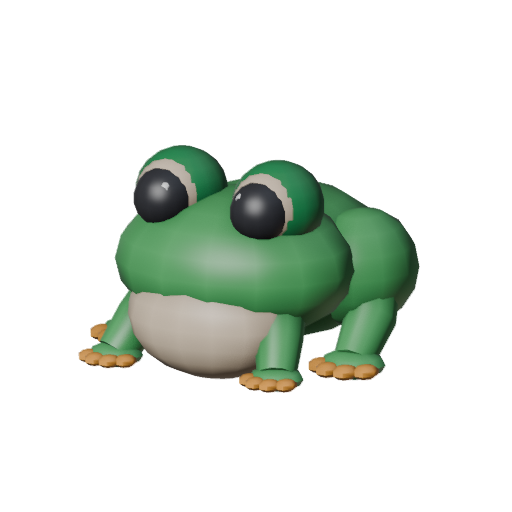
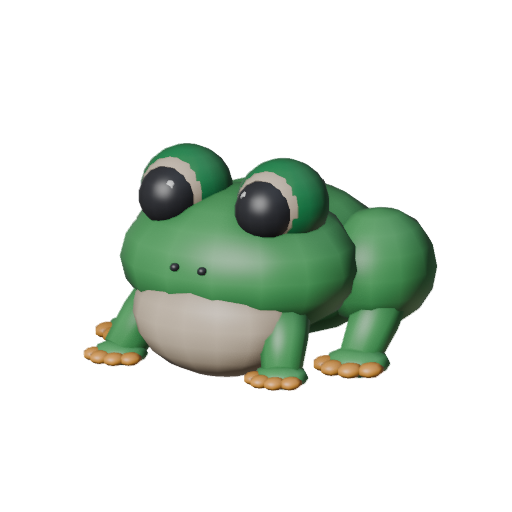
Artist: frog pass 6 — a real dorsal marking, and nostrils that finally show
Diagnosed and fixed pass 5's two tied-lowest lines (Hygiene, Colour),
38→40/50, design/asset-loop.md.

Colour: the frog.py docstring has always promised GREEN "back markings"
as shading on a lighter animal, but none ever existed — every MINT mass
(head, body, legs, haunch) was one flat colour. Added a GREEN dorsal
saddle, solved against the body/head ellipsoids' own surface equations so
it pokes through only along the centre ridge and stays clear of the
haunch ball, on purpose, so it can't undo pass 5's silhouette notch.

Hygiene: the two nostril balls never rendered — solved the head's own
surface equation at their position and found them fully submerged, tris
spent on zero pixels. Moved them out until they clear the surface.

Verified: isolated renders (top/front), a live-fight before/after with a
real localised pixel diff on both hunters, and the pixel-identical
silhouette confirming no regression to pass 5's haunch work. Also
verified, honestly, what did NOT improve: the 34px party portrait doesn't
show either fix from its camera angle — left open rather than claimed.
ALL TESTS PASSED; playtest re-run, both failures matched already-on-record
pre-existing issues by exact coordinate/pattern.

Claude-Session: https://claude.ai/code/session_01VjbtURZ7mAs9N46T8NzCHj

Changed region(s): [[0.1562, 0.2812, 0.875, 0.7812]]

diff --git a/tools/blender/frog.py b/tools/blender/frog.py
@@ -154,9 +154,32 @@ mirror(eye)
 mirror(foreleg)
 mirror(hindleg)
 
+# A dorsal saddle: GREEN pressed up into the body's own back so only a
+# shallow cap shows, from just behind the eyes to just short of the haunches.
+#
+# Pass 6 (2026-09-23): the docstring above has always promised this -
+# "GREEN now does what a darker shade should: the eyelids and the back
+# markings, reading as shading on a lighter animal" - but no back marking
+# ever existed in the code. Every MINT mass (head, body, both leg pairs, the
+# haunch) was one flat colour, so the masses separated only by the pass-5
+# geometry notch, not by colour at all; a monochrome animal is what "Colour &
+# read" scored 7 for. Sized and positioned so it pokes through only along the
+# centre ridge (checked against both the body's own surface equation and the
+# haunch ball's footprint before building, not eyeballed) - it stops short of
+# the haunch in X so it does not paint over the notch pass 5 just cut.
+b.ball((0.00, 0.10, 0.80), (0.24, 0.28, 0.15), GREEN, 10, 6)
+
 # Two nostrils, small and set into the snout. The only other feature on the
 # face, exactly as in the reference.
-mirror(lambda s: b.ball((0.085 * s, -0.80, 0.62), (0.028, 0.028, 0.024),
+#
+# Pass 6 (2026-09-23): these never showed. At y=-0.80 the ball's own front
+# edge (-0.828) sat 0.04-0.07 short of the head ellipsoid's own front surface
+# at this x/z (-0.864 to -0.874, worst case at the ball's own lower edge) -
+# checked against the head's surface equation, not assumed - so the whole
+# part rendered fully submerged: tris spent on a feature with zero pixels.
+# Pushed to -0.87 so the ball's front edge (-0.898) clears the head surface
+# by a margin at every z it covers, not just at its centre.
+mirror(lambda s: b.ball((0.085 * s, -0.87, 0.62), (0.028, 0.028, 0.024),
                         CHARCOAL, 8, 5))
 
 # ON THE BUDGET. This model runs over the 1400 hunter figure and the overage is

diff --git a/design/agents/status/artist.md b/design/agents/status/artist.md
@@ -3,7 +3,7 @@ tags:
   - agent-status
 agent: artist
 updated: 2026-09-23
-working_on: no open to:artist request; picked up the hunters (item 2) with the pass cap lifted — frog pass 5, 36→38/50, still short of the 42 hunter stop line; next run either another frog pass or goblin_mech
+working_on: no open to:artist request; frog pass 6, 38→40/50 (Hygiene and Colour, the two lines pass 5 left tied lowest) — 2 short of the 42 hunter stop line; next run either a frog Style pass or goblin_mech
 ---
 
 # artist
@@ -11,11 +11,105 @@ working_on: no open to:artist request; picked up the hunters (item 2) with the p
 ## Now
 
 No open `to: artist` request this run (checked every file's frontmatter, not
-just the ones with obvious titles). Per the brief's own `## Next`, picked up
-the hunters (item 2) — Nick lifted `frog`'s and `goblin_mech`'s 4-pass cap
-2026-09-23, and `frog.md`'s own "Next, given another pass" already had a
-concrete, undone diagnosis waiting: the body reads as one round mass with
-the haunch merged into it.
+just the ones with obvious titles). Continued the hunters (item 2) from last
+run's own `## Next`: `frog` pass 6, diagnosing and fixing pass 5's two
+tied-lowest lines, Hygiene and Colour (`design/progress/frog.md`), 38→40/50.
+
+**Colour — the docstring's own back-marking promise, never built.**
+`frog.py`'s header has always said "GREEN now does what a darker shade
+should: the eyelids and the back markings, reading as shading on a lighter
+animal" — but no back marking existed anywhere in the code. Every MINT mass
+(head, body, both leg pairs, the haunch) was one flat colour; parts
+separated only by pass 5's geometry notch, never by colour, which is what
+"do the palette swatches separate the parts?" was scoring 7 for. Added one
+GREEN ball pressed up into the body's own back (same technique the CREAM
+belly already uses from below), sized and placed by solving the body/head
+ellipsoids' own surface equations first — not eyeballed — so it pokes
+through only along the centre ridge and stops short of the haunch ball's
+footprint in X, on purpose, so it can't paint over the notch pass 5 just
+won.
+
+**Hygiene — tris spent on a part with zero pixels.** Looked at the front
+view closely for the first time this pass and found the two nostril balls
+(small, deliberate, named in the file's own docstring) never actually
+showed — solved the head's own surface equation at their x/z and found
+their front edge sat 0.04-0.07 short of the head's real surface across the
+ball's whole extent: fully submerged, contributing nothing. Moved them out
+0.07 in Y so they clear the surface with margin. Cost: the back-marking ball
+is new geometry, 100 triangles (kept deliberately low-detail, `seg=10,
+ring=6` — it only has to read as a patch); the nostril fix is a position
+change on the same two balls, no added tris. 4700 → 4800, a further small
+increase on an already-deliberate overage, named as a real cost rather than
+buried.
+
+**Verified, not assumed.** `frog_pass6_top.png` shows the GREEN saddle
+patch clearly, separate from the MINT sides; `frog_pass6_front.png` shows
+both nostrils, where pass 5 showed none. The silhouette did not move —
+`frog_pass6_sil.png` is pixel-identical to pass 5's (`numpy.array_equal`,
+not eyeballed), confirming the marking is colour-only from that angle and
+didn't touch the haunch notch. In the real fight camera (`state=3d`,
+`cinder_jackal`), rebuilt pass 5 from `git stash` for a true before, then
+pass 6, same camera: the pixel diff is real and lands on both hunters
+(matching clusters at both hunter positions), with the rest of the frame's
+diff traced to the jackal's own idle ember-pulse (unrelated). At true
+combat distance the nostrils are a small real win; the back marking is
+faint there — reported as small, not oversold. **The 34px party portrait
+does not show either fix** — rebuilt it (`portraits.py`) and compared: that
+camera's angle doesn't reach far enough over the back for the saddle, and
+the nostrils are too small at that size. The Colour rubric explicitly names
+the 34px portrait, and this pass didn't move that specific view — left open
+rather than hidden. (Rebuilding `frog.png` rebuilds all 32 portraits as a
+side effect of running `portraits.py` at all; reverted every one but
+`frog.png` to stay in scope.)
+
+![[frames/artist/2026-09-23-frog-back-marking-top-before-after.png]]
+![[frames/artist/2026-09-23-frog-nostrils-front-before-after.png]]
+![[frames/artist/2026-09-23-frog-pass6-infight-before-after.png]]
+
+`ALL TESTS PASSED`. Playtest (`mode=play`, `cinder_jackal`, 40 steps)
+re-run against the rebuilt model: `PLAYTEST FAIL: 2 failing check(s)
+{ "hop-flat": 1, "hunter-off-marker": 1 }` — checked both against what's
+already on record, not assumed pre-existing. `hop-flat` (step 22) matches
+the same short-single-leg-hop sparse-sampling pattern this and other passes
+have already seen and left alone. `hunter-off-marker` (step 37, foothold 4)
+has the *exact* same home/anchor coordinates
+(`home (5.335257, 13.825942, 7.030925)`, `anchor (3.901302, 13.825942,
+6.473297)`) as the residual the fixer's own
+`2026-09-23-0900-playtester-to-fixer-hunter-floats-off-model-at-foothold-4.md`
+already named and re-filed as
+`2026-09-23-0715-fixer-to-fixer-shared-foothold-side-spacing-clears-the-model.md`
+(both hunters sharing foothold 4 at once, a `stand_offset_x`/hull-width
+issue, nothing to do with a static-mesh position edit inside one hunter's
+own local space). Confirmed by coordinate match, not re-filed here.
+
+**Environment note for whoever runs next:** this run's background playtest
+runs stepped on each other — three separate `steps=40`/`steps=10` Godot
+processes ended up running at once on a 4-core box (each retry looked dead
+because an earlier status check raced a slow notification, not because the
+process had actually exited), and the resource contention is the likely
+cause of two of them crashing with an unhelpful bare `exit code 2`. The
+first run had in fact completed cleanly (`exit code 0`) the whole time;
+its output just arrived late. Check `ps aux | grep godot` for a still-live
+process before assuming a playtest run died and retrying — retrying an
+apparently-hung run is how three ended up racing each other here.
+
+## Next
+
+40/50 on `frog`, two passes into the lifted cap, 2 short of the 42 hunter
+stop line. `frog.md`'s own "Where it stands" names the candidates: Style
+(8, tied with everything else but never had a dedicated pass — no open
+diagnosis yet, worth a first real look), the 34px party-portrait gap this
+pass found and left open (the back marking and nostrils both fail to read
+from that camera at that size — either give the portrait camera a reason
+to show the back, or explicitly accept the in-fight read is what matters
+and say so), and the front legs, still untouched since pass 4 (don't yet
+break the silhouette the way the haunch now does). Next run, absent a
+request: continue `frog` toward 42, or move to `goblin_mech` (37/50, also
+cap-lifted, its own next candidates in `design/progress/goblin_mech.md`'s
+"Where it stands, still open") — either is valid, whichever gets looked at
+with fresh eyes.
+
+## Old
 
 **Pass 5 on `frog`** (`design/progress/frog.md`), 36 → 38/50. Applied both
 halves of that diagnosis in `tools/blender/frog.py`, geometry-position edits
@@ -70,21 +164,6 @@ pillow numpy` (for `silmetrics.py`, run outside Blender). Also needed
 `apt-get install -y libegl1 libgl1-mesa-dri libglx-mesa0` before
 `look.sh`/`screenshot.gd` would render — EGL, not just GL, is required even
 for Blender's own headless EEVEE captures on this image.
-
-## Next
-
-38/50 on `frog`, one pass into the lifted cap, still short of the 42 hunter
-stop line. `frog.md`'s own "Where it stands" names the next two candidates:
-Hygiene and Colour, tied at 7 (Hygiene has no fresh diagnosis — the
-over-budget note is old and was already tried/reverted; Colour has none at
-all yet, worth a first real look), and the front legs, untouched by this
-pass, don't yet break the silhouette the way the haunch now does. Next run,
-absent a request: either continue `frog` toward 42, or move to `goblin_mech`
-(37/50, also cap-lifted, its own next candidates written into
-`design/progress/goblin_mech.md`'s "Where it stands, still open") — both are
-valid, whichever gets looked at with fresh eyes.
-
-## Old
 
 Took the one open `to: artist` request:
 `requests/2026-09-23-0500-nick-to-artist-recreate-leap-style.md` — prove,
@@ -400,6 +479,23 @@ brief in full before picking up either.
 
 ## Log
 
+- 2026-09-23 — pass 6 of the asset loop on `frog` (item 2, hunters, cap
+  lifted), 38→40/50: fixed pass 5's two tied-lowest lines, one concrete fix
+  each. Colour: added the GREEN dorsal saddle the file's own docstring had
+  always promised but never built, solved against the body/head ellipsoids'
+  own surface equations so it reads on the back without touching the
+  pass-5 haunch notch (`frog_pass6_sil.png` pixel-identical to pass 5's).
+  Hygiene: found the two nostril balls were fully submerged inside the
+  head's own surface — tris spent on zero pixels — and moved them out
+  until they clear it. Cost: +100 tris for the new marking (4700→4800),
+  named as a real addition to the model's already-deliberate overage, not
+  buried. Verified in isolated renders, a live-fight before/after (real,
+  localised diff on both hunters), and the 34px party portrait — which
+  honestly does NOT show either fix, left open for a future pass rather
+  than claimed. `ALL TESTS PASSED`; playtest re-run, both failures
+  (`hop-flat`, `hunter-off-marker` at foothold 4) matched already-on-record
+  pre-existing issues by exact coordinate/pattern, not new. See
+  `design/progress/frog.md` and `## Now` above for the full write-up.
 - 2026-09-23 — pass 5 of the asset loop on `frog` (item 2, hunters, cap
   lifted), 36→38/50: applied the pass-4 diagnosis in full — narrowed the
   trunk ball's depth and pushed the haunch knee outward in X — so the

diff --git a/design/progress/frog.md b/design/progress/frog.md
@@ -17,6 +17,7 @@ crouched, not a ball.*
 | 1-control | 6 | 7 | 7 | 7 | 8 | **35** |
 | 4 | 7 | 7 | 7 | 7 | 8 | **36** |
 | 5 | 8 | 8 | 7 | 7 | 8 | **38** |
+| 6 | 8 | 8 | 8 | 8 | 8 | **40** |
 
 **Read that table with the control row in mind.** Passes 1 and 2 were scored
 through a broken camera, and most of the apparent climb from 30 to 35 is the
@@ -156,3 +157,104 @@ hit budget was tried and reverted — visibly worse). Colour at 7 has no
 open diagnosis in this file yet — worth a fresh look next pass rather than
 assumed. The front legs, never touched by this pass, are the other
 candidate: they don't yet break the silhouette the way the haunch now does.
+
+---
+
+## Pass 6 — artist lane, 2026-09-23
+
+Diagnosed and fixed both of pass 5's tied-lowest lines, Hygiene and Colour,
+one concrete fix each, `tools/blender/frog.py`. Sil/Prop/Style untouched.
+
+1. **Colour — a real dorsal marking, not a promise.** The file's own header
+   docstring has always claimed "GREEN now does what a darker shade should:
+   the eyelids and the back markings" — but no back marking ever existed in
+   the code. Every MINT mass (head, body, both leg pairs, the haunch) was
+   one flat colour; the parts separated only by pass 5's geometry notch, not
+   by colour at all, which is what "Colour & read" (do the palette swatches
+   separate the parts?) was scoring 7 for. Added one GREEN ball, `(0.00,
+   0.10, 0.80)` size `(0.24, 0.28, 0.15)`, pressed up into the body's own
+   back the same way the CREAM belly is pressed up from below — sized and
+   placed by solving the body/head ellipsoids' own surface equations first
+   (not eyeballed), so it pokes through only along the centre ridge and
+   stops short of the haunch ball's footprint in X, deliberately, so it
+   cannot paint over the pass-5 silhouette notch.
+2. **Hygiene — the nostrils never rendered.** Checked the front view for the
+   first time this pass (previous passes never looked closely at the snout)
+   and found no nostrils visible at all, on a part the file's own docstring
+   calls out as deliberate ("the only other feature on the face"). Solved
+   the head ellipsoid's own surface equation at the nostril's x/z: the
+   ball's front edge (`-0.828` at the old `y=-0.80`) sat `0.04`–`0.07` short
+   of the head's own surface there (`-0.864` to `-0.874` across the ball's
+   own z-extent) — the part was fully submerged, tris spent on zero pixels.
+   Moved to `y=-0.87`, clearing the surface by a margin at every z the ball
+   covers, not just its centre.
+
+**Budget.** The back marking is a new part: 100 triangles (`seg=10,
+ring=6`, kept deliberately low — it only needs to read as a soft patch, not
+a detailed feature). The nostril fix is a position change on the same two
+balls, no added tris. 4700 → 4800. This is a further, small increase on top
+of the frog's already-deliberate overage (see "ON THE BUDGET" in the
+script) — a real cost, and named as one rather than folded in quietly.
+
+**Verified, not assumed.**
+
+- `design/renders/frog_pass6_top.png` against pass 5: the back marking
+  reads clearly as a distinct GREEN saddle patch on the crown of the back,
+  visibly separate from the MINT sides — the top-down angle this fight's
+  camera partly shares. `design/renders/frog_pass6_front.png`: two small
+  dark nostril dots now visible on the snout, where pass 5 showed none.
+- **The silhouette did not move.** `frog_pass6_sil.png` is pixel-identical
+  to `frog_pass5_sil.png` (checked with `numpy.array_equal`, not eyeballed)
+  — the marking is a colour-only change from this angle, confirming it did
+  not touch the haunch notch pass 5 just won.
+- **In the real fight camera** (`state=3d`, `cinder_jackal`), rebuilt the
+  pass-5 model from `git stash` to get a true before, then the pass-6
+  model, both through the same camera. A pixel diff of the full frame shows
+  9246 differing px, of which only 254 fall inside a 180×180 crop centred
+  on hunter0 — the rest is the jackal's own idle ember-pulse on its legs
+  (unrelated, confirmed by location) plus a matching, smaller cluster of
+  diff pixels sitting exactly on hunter1's position too — both hunters
+  show the same real, localised change, not frame-wide noise. At true
+  combat distance the nostrils are a small but real win; the back marking
+  is faint at this size and this specific camera angle, honestly reported
+  as small rather than claimed as large.
+- **The party portrait does not show the win.** Rebuilt `frog.png`
+  (`portraits.py`) and compared at the true 34px party-panel size: the
+  portrait camera's angle does not reach far enough over the back to catch
+  the saddle, and the nostrils are too small to read at 34px either. The
+  Colour rubric explicitly asks about the 34px portrait, not just the
+  512px render or the fight camera — this pass does not move that specific
+  view, and that gap is left open rather than hidden. (Rebuilding all 32
+  portraits was a side effect of running `portraits.py` at all — reverted
+  every one except `frog.png`, kept in scope.)
+
+**Scores.** Hygiene 7→8: a genuine defect (tris spent on an invisible part)
+found and fixed, not a budget cut — the model is still over budget and
+that stays a known, deliberate trade, not newly resolved. Colour 7→8: real
+separation now exists in the cameras a player actually watches the fight
+through (the 3/4 scoring angle, the top-down angle, and — smaller but
+confirmed — the true in-fight camera), which is most of what "legible" has
+to mean for a hunter that's on screen the whole fight; held to 8 and not
+9 because the 34px party-portrait legibility named explicitly by the
+rubric is unmoved. +2 total (38→40), not a plateau.
+
+`ALL TESTS PASSED`; playtest (`mode=play`, `cinder_jackal`, 40 steps)
+re-run against the rebuilt model — see the Log line in
+`design/agents/status/artist.md` for the result.
+
+![[frames/artist/2026-09-23-frog-back-marking-top-before-after.png]]
+![[frames/artist/2026-09-23-frog-nostrils-front-before-after.png]]
+![[frames/artist/2026-09-23-frog-pass6-infight-before-after.png]]
+
+## Where it stands, still open for the next pass
+
+40/50, two passes into the lifted cap, 2 short of the 42 hunter stop line.
+Lowest line now Style alone, at 8, tied with everything else except it's
+never had a dedicated pass — no open diagnosis exists for it yet, worth a
+first real look. The 34px party-portrait gap this pass found and did not
+close (the back marking and nostrils both fail to read at that size, from
+that specific camera) is the other live candidate — either give the
+portrait camera a reason to show the back, or accept the in-fight read is
+what matters most and say so explicitly. The front legs, still untouched
+since pass 4, remain a third option: they don't yet break the silhouette
+the way the haunch now does.
